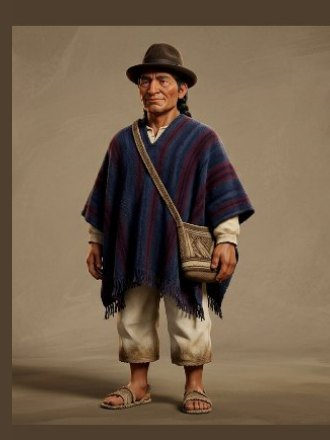
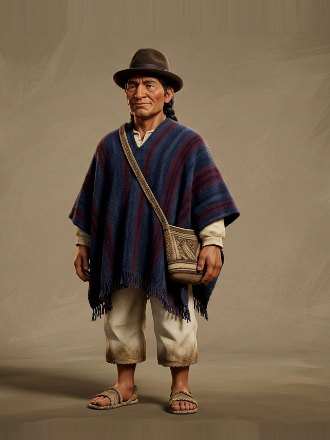
juego-12 Tema 3: el relleno de las fotos estira el borde, no pinta un color
Las laminas tienen un fondo en degradado con viñeta, asi que rellenar
el aire sobrante con un tono sacado de la esquina dejaba un marco
visible (la autora lo vio en la alumna). Ahora se estira el propio
borde de la lamina hacia afuera y la union no se nota.

diff --git a/juegos/juego-12/.planning/optimizar-j6t3.js b/juegos/juego-12/.planning/optimizar-j6t3.js
@@ -128,7 +128,16 @@ const ANCHO = 330, ALTO = 440, CALIDAD = 0.86;
       octx.fillStyle = pared;
       octx.fillRect(0, 0, ANCHO, ALTO);
       const k = ALTO / (cy1 - cy0);                  // píxeles de salida por píxel fuente
-      octx.drawImage(img, 0, 0, W, H, (0 - cx0) * k, (0 - cy0) * k, W * k, H * k);
+      const dx = (0 - cx0) * k, dy = (0 - cy0) * k, dw = W * k, dh = H * k;
+      // ⚠ El relleno NO puede ser un color plano: el fondo de las láminas es un degradado
+      // con viñeta, así que un tono sacado de la esquina se nota como un marco (la autora
+      // lo vio en la alumna). Se ESTIRA el propio borde de la lámina hacia afuera, que es
+      // lo que hace cualquier editor, y la unión no se ve.
+      if (dx > 0) octx.drawImage(img, 0, 0, 2, H, 0, dy, Math.ceil(dx) + 1, dh);
+      if (dx + dw < ANCHO) octx.drawImage(img, W - 2, 0, 2, H, Math.floor(dx + dw) - 1, dy, ANCHO - (dx + dw) + 2, dh);
+      if (dy > 0) octx.drawImage(img, 0, 0, W, 2, dx, 0, dw, Math.ceil(dy) + 1);
+      if (dy + dh < ALTO) octx.drawImage(img, 0, H - 2, W, 2, dx, Math.floor(dy + dh) - 1, dw, ALTO - (dy + dh) + 2);
+      octx.drawImage(img, 0, 0, W, H, dx, dy, dw, dh);
       return { url: o.toDataURL("image/jpeg", q), fig: [x0, y0, x1, y1], recorte: [Math.round(cx0), Math.round(cy0), Math.round(cx1), Math.round(cy1)] };
     }, [dataUrl, ANCHO, ALTO, CALIDAD]);
     if (!out) { console.log(f.padEnd(24) + "  ✗ no se encontró la figura: se deja igual"); continue; }
